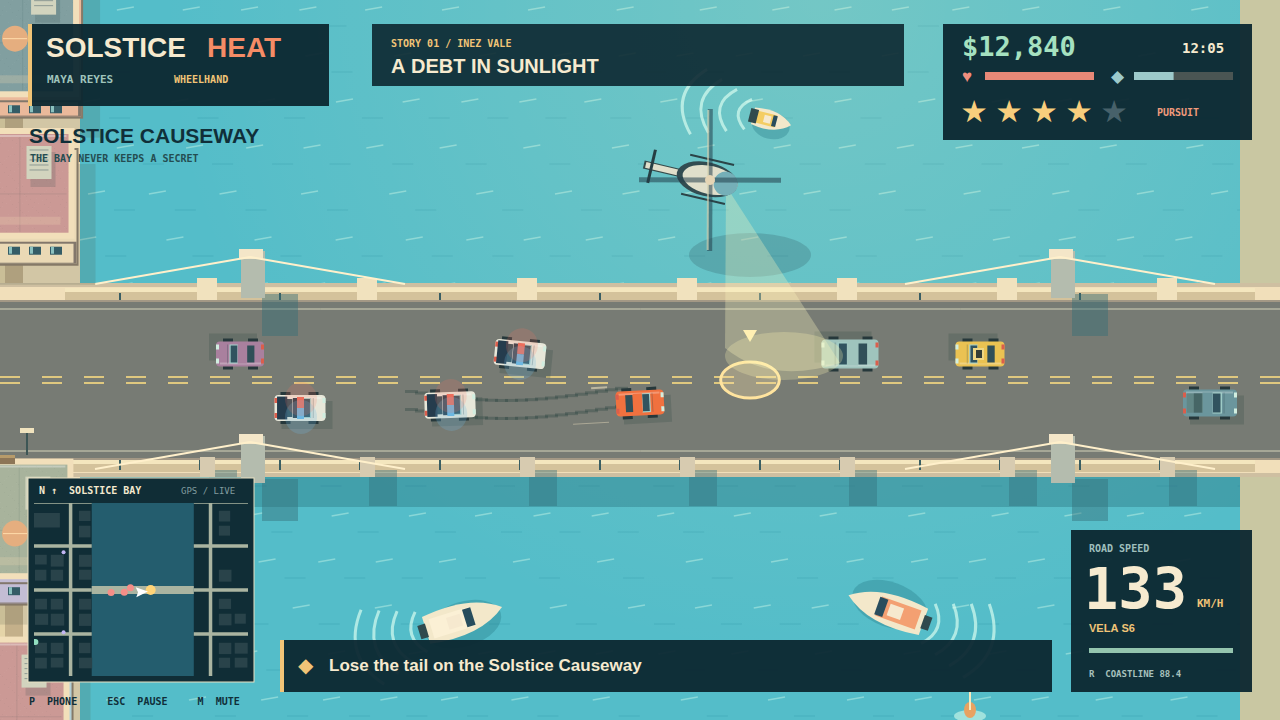
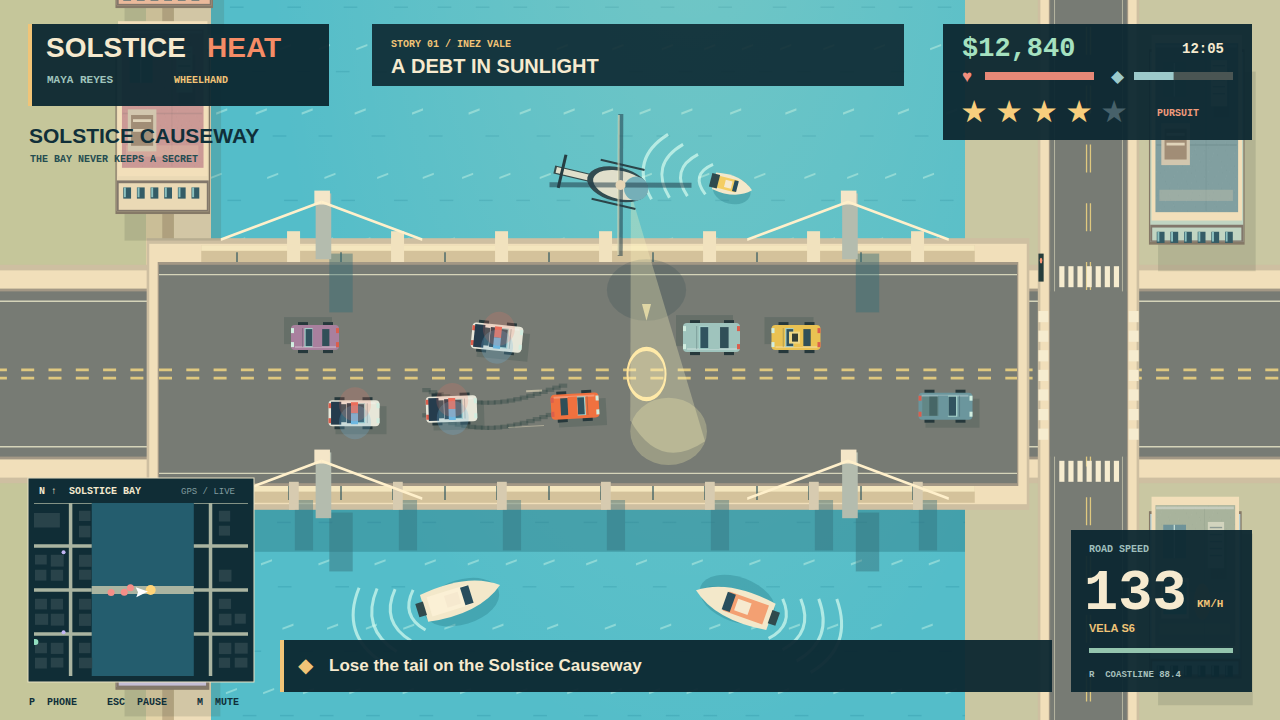
Polish causeway and marina screenshot staging

diff --git a/game/src/staging.js b/game/src/staging.js
@@ -33,7 +33,27 @@
       }
     };
     if (shot === "chase") {
-      g.camera = { x: 2580, y: 1500 };
+      g.camera = { x: 2680, y: 1510 };
+      // Shot-only panoramic camera: include both landings and give the deck
+      // more of the vertical frame. The renderer restores this world transform
+      // before drawing the HUD, so its text and panels remain at native size.
+      const context = document.querySelector("canvas").getContext("2d");
+      const translate = context.translate.bind(context);
+      context.translate = (x, y) => {
+        if (x === 640 - g.camera.x && y === 360 - g.camera.y) {
+          translate(640, 360);
+          context.scale(0.65, 1.4);
+          translate(-g.camera.x, -g.camera.y);
+        } else {
+          translate(x, y);
+          // Keep the chase vehicles and helicopter at their natural aspect
+          // ratio within the panoramic scene projection.
+          if (g.vehicles.some(v => v.x === x && v.y === y) ||
+              (g.policeHeli?.x === x && g.policeHeli?.y === y)) {
+            context.scale(1 / 0.65, 1 / 1.4);
+          }
+        }
+      };
       g.player.vehicle = add("sports", 2580, 1543, -0.055, "#f0713f");
       g.player.vehicle.speed = 370;
       add("police", 2390, 1545, -0.03, "#e9ebdf", true);
@@ -43,10 +63,10 @@
       add("taxi", 2920, 1494, Math.PI, "#eac252");
       add("sedan", 2180, 1494, Math.PI, "#a9809e");
       add("pickup", 3150, 1543, 0, "#6b969d");
-      add("boat", 2400, 1760, -0.3, "#fbf0d5");
-      add("boat", 2830, 1750, -2.8, "#f3a072");
-      add("jetski", 2710, 1260, 0.25, "#f4cd63");
-      g.policeHeli = { x: 2650, y: 1320, angle: 0.23 };
+      add("boat", 2400, 1680, -0.3, "#fbf0d5");
+      add("boat", 2830, 1685, -2.8, "#f3a072");
+      add("jetski", 2820, 1385, 0.25, "#f4cd63");
+      g.policeHeli = { x: 2650, y: 1385, angle: 0.23 };
       g.heat = 4;
       g.mission = { index: 0, step: 1, hold: 0 };
       g.stagedTitle = "SOLSTICE CAUSEWAY";
@@ -133,17 +153,17 @@
       g.stagedTitle = "THE GILDED TIDE";
       g.stagedSubtitle = "VAULT QUARTER / STORY JOB 02";
     } else {
-      g.camera = { x: 2180, y: 2640 };
-      g.player.vehicle = add("boat", 2300, 2615, -0.27, "#ed8051");
+      g.camera = { x: 1810, y: 2680 };
+      g.player.vehicle = add("boat", 2175, 2640, -0.27, "#ed8051");
       g.player.vehicle.speed = 312;
-      const patrol = add("boat", 2100, 2705, -0.3, "#e9efe1", true);
+      const patrol = add("boat", 2075, 2690, -0.3, "#e9efe1", true);
       patrol.speed = 220;
       add("sports", 1780, 2480, -Math.PI / 2, "#ef7548").speed = 280;
       add("taxi", 1810, 2690, Math.PI / 2, "#f1cb5a");
       add("van", 1728, 2560, Math.PI / 2, "#a3b9ba");
       add("boat", 2110, 2930, -Math.PI / 2, "#f4d88b");
-      add("jetski", 2510, 2790, -0.6, "#f4dc81");
-      add("boat", 2710, 2440, Math.PI / 2, "#c8e5e4");
+      add("jetski", 2260, 2770, -0.6, "#f4dc81");
+      add("boat", 2225, 2540, Math.PI / 2, "#c8e5e4");
       people(1880, 2485, 8, false);
       g.heat = 3;
       g.mission = { index: 2, step: 1, hold: 0 };
